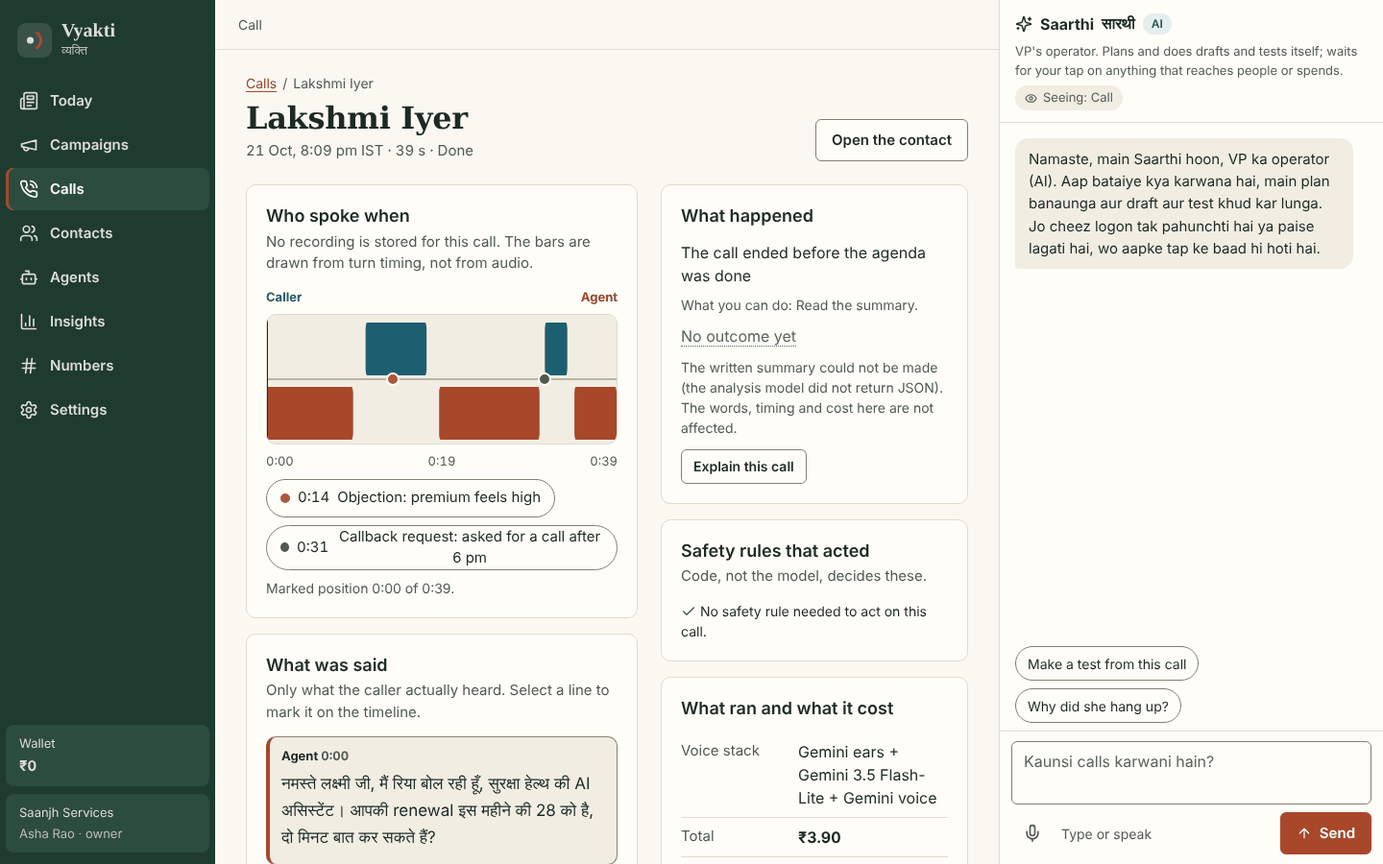
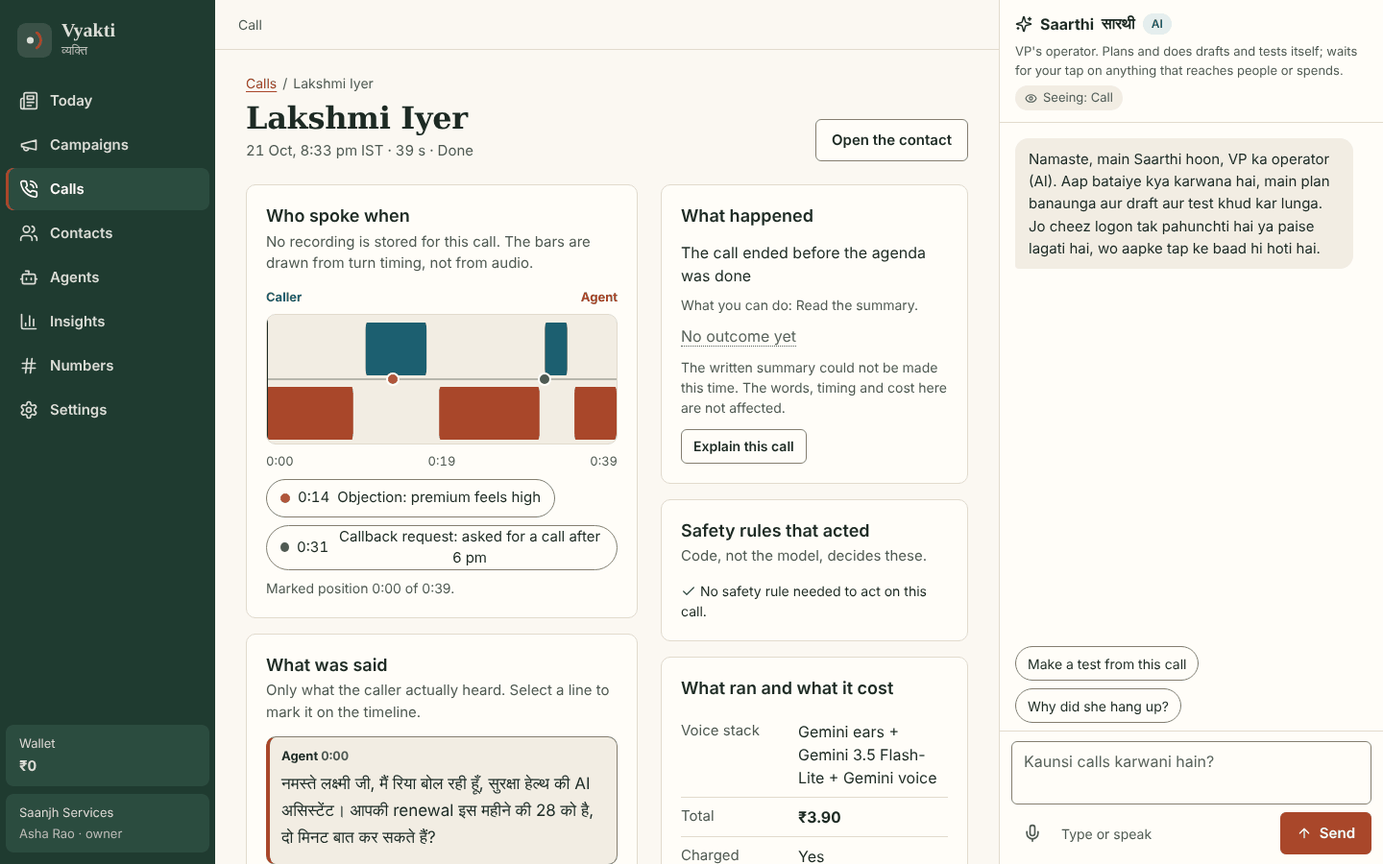
web: copy pass 2 (activity sentences by day, call/contact/campaign copy, wider e2e text scan, registry label coverage test), re-shot all screens
Claude-Session: https://claude.ai/code/session_014EmCLozX1VcXabqUjBazhN

diff --git a/product/web/src/labels.ts b/product/web/src/labels.ts
@@ -103,3 +103,75 @@ export function blockerCopy(b: Blocker): { text: string; why?: string; to?: { la
 }
 
 export const pl = (n: number, one: string, many = one + 's') => `${n} ${n === 1 ? one : many}`;
+
+/** What each tool did, in the past tense and without the actor ("ran a practice call"), for the activity ledger. A test fails if the
+ *  server registers a tool that is not here. An unknown id falls back to "made a change", never to the id itself. */
+export const PAST: Record<string, string> = {
+  'a2p.declaration.export': 'exported the A2P declaration pack', 'action.undo': 'undid a recent change', 'activity.list': 'looked at the activity ledger',
+  'agent.create': 'created an agent', 'agent.get': 'opened an agent', 'agent.list': 'looked at the agents',
+  'apikey.create': 'created an API key', 'apikey.list': 'looked at the API keys', 'apikey.revoke': 'revoked an API key',
+  'attempt.list': 'looked at call attempts', 'attempt.retry_per_ladder': 'scheduled another call attempt',
+  'audience.create': 'saved an audience', 'audience.get': 'opened an audience', 'audience.list': 'looked at the audiences', 'audience.preview': 'previewed who an audience reaches',
+  'brand.cnap_name.set': 'set the name that shows on the phone of the people called', 'brand.get': 'looked at the brand details', 'brand.update': 'changed the brand details',
+  'brief.compile': 'checked an agent\'s brief', 'brief.edit': 'changed an agent', 'brief.today': 'opened the Today brief',
+  'call.explain': 'asked why a call went the way it did', 'call.get': 'opened a call', 'call.place_single': 'called one person', 'call.search': 'searched the calls',
+  'campaign.audience.add': 'added people to a campaign', 'campaign.draft': 'saved a campaign draft', 'campaign.estimate': 'worked out what a campaign would cost', 'campaign.funnel': 'looked at a campaign\'s funnel',
+  'campaign.get': 'opened a campaign', 'campaign.launch': 'launched a campaign', 'campaign.list': 'looked at the campaigns', 'campaign.pause': 'paused a campaign', 'campaign.resume': 'resumed a campaign',
+  'campaign.stop': 'stopped a campaign', 'campaign.stop_at_cap': 'paused a campaign that reached its spend limit', 'campaign.window.narrow': 'narrowed a campaign\'s calling hours', 'campaign.window.widen': 'widened a campaign\'s calling hours',
+  'cap.lower': 'lowered a spend limit', 'cap.raise': 'raised a spend limit', 'consent.record': 'recorded a person\'s consent',
+  'contact.dial_facts': 'checked whether a person can be called', 'contact.dnd_refresh': 'checked people against the Do Not Disturb list', 'contact.export': 'exported people as a file', 'contact.get': 'opened a person',
+  'contact.list': 'looked at the contacts', 'contact.memory.forget': 'forgot everything remembered about a person', 'contact.memory.get': 'looked at what is remembered about a person', 'contact.merge': 'merged two records of one person',
+  'contact.search': 'searched the contacts', 'contact.suppress': 'stopped calling a person', 'contact.suppress_after_opt_out': 'stopped calling a person after they opted out', 'contact.unsuppress': 'allowed calling a person again',
+  'deployment.revert_to_last_good': 'put the previous version of an agent back', 'deployment.split': 'changed which agent versions take calls',
+  'dpdp.request.execute': 'carried out a person\'s data request', 'experiment.assign': 'checked which version a person hears', 'experiment.check': 'checked a test on real calls', 'experiment.get': 'opened a test on real calls',
+  'experiment.list': 'looked at the tests on real calls', 'experiment.start': 'started a test on real calls', 'experiment.stop': 'stopped a test on real calls',
+  'fact.approve': 'approved something remembered about a person', 'fact.forget': 'forgot one remembered fact',
+  'integration.connect': 'connected an outside service', 'integration.disconnect': 'disconnected an outside service', 'integration.kinds': 'looked at what can be connected', 'integration.list': 'looked at the connected services', 'integration.stage_secrets': 'handed over credentials for an outside service',
+  'invoice.get': 'looked at the usage statement', 'issue.list': 'looked at the open issues', 'issue.resolve': 'resolved an issue',
+  'judge.calibrate': 'measured how well an outcome judge agrees with people', 'judge.edit': 'changed how an outcome is judged',
+  'knowledge.ingest': 'added a knowledge source', 'knowledge.list': 'looked at the knowledge sources', 'knowledge.span.approve': 'decided which passages she may state', 'learning.power': 'worked out how many calls a test needs', 'learning.propose': 'looked for improvements from an agent\'s calls',
+  'lesson.list': 'looked at what has been learned', 'live.listen': 'listened to a live call', 'live.takeover': 'took over a live call', 'live.whisper': 'whispered to the agent on a live call',
+  'member.invite': 'invited a teammate', 'member.list': 'looked at the team', 'member.remove': 'removed a teammate', 'member.role.set': 'changed a teammate\'s role',
+  'memory.brief': 'prepared what the next call remembers', 'memory.extract': 'noted something a caller said, for review', 'memory.policy.get': 'looked at the memory setting', 'memory.policy.set': 'changed what is remembered',
+  'money.card': 'looked at a stack\'s provider costs', 'money.estimate': 'worked out what a voice stack costs', 'money.reconcile': 'compared charges with metered cost', 'monitor.create': 'turned on a monitor', 'monitor.list': 'looked at the monitors',
+  'number.byo.connect': 'connected a number they own', 'number.kyc.submit': 'sent KYC documents for a number', 'number.pause': 'paused a number', 'number.pause_flagged': 'paused a flagged number', 'number.rent': 'rented a number', 'number.search': 'searched for numbers to rent',
+  'offering.edit': 'changed an offering', 'offering.list': 'looked at the offerings',
+  'operator.autonomy.lower': 'made Saarthi ask before every draft and test', 'operator.autonomy.raise': 'let Saarthi draft and test on its own again', 'operator.brain.set': 'switched Saarthi\'s brain',
+  'operator.preference.forget': 'forgot a way Saarthi works for them', 'operator.preference.list': 'looked at what Saarthi remembers about how they work', 'operator.preference.remember': 'asked Saarthi to remember how they like to work', 'operator.settings.get': 'looked at the Saarthi settings',
+  'outcome.define': 'defined what counts as an outcome', 'outcome.label': 'labelled a call\'s outcome', 'outcome.record_verified': 'recorded an outcome confirmed by their own system',
+  'plan.change': 'changed the plan', 'policy.category.override': 'changed a campaign\'s kind of call', 'policy.window.set': 'changed the calling hours',
+  'proposal.accept': 'started testing a proposed change on real calls', 'proposal.get': 'opened a proposed change', 'proposal.list': 'looked at the proposed changes', 'proposal.probe': 'simulated a proposed change',
+  'report.create': 'built a report', 'revision.list': 'looked at recent changes', 'safety.cases': 'looked at the safety rules', 'safety.check': 'previewed the safety check', 'search.global': 'searched everything', 'secret.reveal': 'viewed a new key once',
+  'share.link.create': 'made a link to share one item', 'share.link.list': 'looked at the share links', 'share.link.revoke': 'turned a share link off',
+  'source.commit': 'imported a contact list', 'source.list': 'looked at where people come from', 'source.map': 'matched the columns of a contact list', 'source.receipt': 'looked at an import receipt', 'source.upload': 'uploaded a contact list',
+  'stack.list': 'looked at the voice stacks', 'stack.set': 'chose a voice stack for an agent', 'template.list': 'looked at the starter agents',
+  'test.browser_call': 'started a test call in the browser', 'test.ring_member_phone': 'rang their own phone for a test', 'test.simulate': 'ran a practice call', 'test.simulate_batch': 'ran a set of practice calls',
+  'thread.get': 'opened a Saarthi conversation', 'thread.list': 'looked at the Saarthi conversations', 'tool.attach': 'changed what an agent can do on a call', 'usage.get': 'looked at what has been spent',
+  'version.candidate': 'prepared a version to test', 'version.diff': 'compared two versions', 'version.list': 'looked at an agent\'s versions', 'version.publish': 'published an agent', 'voice.set': 'chose a voice for an agent',
+  'wallet.credit': 'credited the wallet by hand', 'wallet.get': 'looked at the wallet', 'wallet.topup': 'added money to the wallet',
+  'webhook.create': 'added a webhook', 'webhook.delete': 'removed a webhook', 'webhook.deliveries': 'looked at what was sent to webhooks', 'webhook.emit': 'queued a webhook event', 'webhook.list': 'looked at the webhooks', 'webhook.replay': 'sent a webhook event again',
+  'workspace.get': 'looked at the workspace',
+  'attempt.cancel_for_contact': 'cancelled waiting call attempts for a person', 'member.phone.verify_confirm': 'checked the code for verifying their phone', 'member.phone.verify_start': 'asked for a call to verify their phone',
+  'number.a2p.declare': 'recorded a number\'s A2P declaration', 'number.kyc.sync': 'refreshed a number\'s KYC status', 'number.list': 'looked at the numbers', 'policy.retention.get': 'looked at how long data is kept', 'policy.retention.set': 'changed how long data is kept',
+  'simcaller.list': 'looked at the practice callers', 'simcaller.save': 'saved a practice caller',
+};
+/** Where to look at what an activity row was about (a page, not an object: the ledger carries no object id for most rows). */
+export function pageFor(tool: string): string | null {
+  const p = tool.split('.')[0];
+  return ({ agent: '/agents', brief: '/agents', stack: '/agents', version: '/agents', voice: '/agents', test: '/agents', campaign: '/campaigns', audience: '/audiences', source: '/contacts', contact: '/contacts', call: '/calls',
+    number: '/numbers', wallet: '/settings/billing', cap: '/settings/billing', apikey: '/settings/keys', member: '/settings/team', brand: '/settings/brand', knowledge: '/settings/knowledge', memory: '/settings/privacy',
+    dpdp: '/settings/privacy', operator: '/settings/operator', integration: '/settings/integrations', proposal: '/insights', learning: '/insights', experiment: '/insights', issue: '/insights', monitor: '/insights' } as Record<string, string>)[p] ?? null;
+}
+/** "Asha Rao ran test simulate (approved)" becomes "Asha Rao ran a practice call". The actor is the text before the first verb. */
+// Audit events that are not tools; written so the tool-contract scan does not mistake them for tool ids.
+const PROPOSED = ['action', 'propose'].join('.'), CREATED = ['workspace', 'create'].join('.');
+export function activitySentence(line: string, action: string): string {
+  const actor = /^(.+?) (?:ran|asked|did|made|set|changed) /.exec(line)?.[1] ?? 'Someone';
+  if (action === CREATED) return `${actor} created the workspace`;
+  if (action === PROPOSED) {
+    const words = /asked to run (.+?) and is waiting/.exec(line)?.[1];
+    const key = words ? Object.keys(TOOL_LABEL).find(k => k.replace(/[._]/g, ' ') === words) : undefined;
+    return key ? `${actor} asked for approval: ${TOOL_LABEL[key].ask.charAt(0).toLowerCase()}${TOOL_LABEL[key].ask.slice(1)}` : `${actor} asked for approval to make a change`;
+  }
+  return `${actor} ${PAST[action] ?? 'made a change'}${/\(approved\)/.test(line) ? ', after approval' : ''}`;
+}

diff --git a/product/web/src/pages/settings.tsx b/product/web/src/pages/settings.tsx
@@ -6,9 +6,11 @@ import { useApp, useData } from '../store.tsx';
 import { useNav } from '../router.tsx';
 import { Async, Btn, Card, CardHead, Chip, Empty, Locked, Meter, NotMeasured, PageHead, SelectField, Sheet, Table, Tabs, TextArea, TextField, Toggle, type Col } from '../ui.tsx';
 import { activityList, keyList, knowledgeList, memberList, walletGet } from '../data.ts';
-import { ago, count, date, inr } from '../format.ts';
+import { ago, count, date, inr, time } from '../format.ts';
 import { prettyId } from '../catalog.ts';
 import { prettyCode } from './contacts.tsx';
+import { Link } from '../router.tsx';
+import { activitySentence, pageFor } from '../labels.ts';
 import type { ActivityRow, ApiKey, KnowledgeItem, Member } from '../types.ts';
 
 const TABS = ['team', 'keys', 'brand', 'knowledge', 'billing', 'compliance', 'privacy', 'operator', 'integrations', 'activity'] as const;
@@ -174,7 +176,7 @@ function Compliance() {
   return (
     <div className="stack">
       <Card><CardHead title="Rules every call follows" sub="Enforced in code at one dial gate and one reply door, not in a prompt. They cannot be switched off." />
-        <Async q={q} what="Safety rules" tool="safety.cases">{d => <><ul className="billing">{d.rules.reply.map(r => <li key={r.id}><div><strong>{r.reason.charAt(0).toUpperCase() + r.reason.slice(1)}</strong><span className="small muted"> · {r.action === 'block' ? 'blocked' : 'replaced'} before it is said</span></div><Chip tone="leaf">Always on</Chip></li>)}</ul><p className="small muted">Rule set {d.rules.version}. Also always on: DND and opt-out checks before every attempt, and the AI disclosure, spoken once and lightly.</p></>}</Async></Card>
+        <Async q={q} what="Safety rules" tool="safety.cases">{d => <><ul className="billing">{d.rules.reply.map(r => <li key={r.id}><div><strong>{r.reason.charAt(0).toUpperCase() + r.reason.slice(1)}</strong><span className="small muted"> · {r.action === 'block' ? 'blocked' : 'replaced'} before it is said</span></div><Chip tone="leaf">Always on</Chip></li>)}</ul><p className="small muted">Rules last updated {(() => { const m = /^(\d{4}-\d{2}-\d{2})/.exec(d.rules.version); return m ? new Date(m[1] + 'T00:00:00+05:30').toLocaleDateString('en-IN', { day: 'numeric', month: 'long', year: 'numeric', timeZone: 'Asia/Kolkata' }) : 'recently'; })()}. Also always on: DND and opt-out checks before every attempt, and the AI disclosure, spoken once and lightly.</p></>}</Async></Card>
       <Card><CardHead title="Workspace calling hours" sub="The outer band every campaign window must sit inside. Widening it is a policy change." />
         {policy ? <><div className="formgrid"><TextField label="From" type="time" value={band.start} onChange={e => setBand({ ...band, start: e.target.value })} /><TextField label="To" type="time" value={band.end} onChange={e => setBand({ ...band, end: e.target.value })} /></div>
           <div style={{ marginTop: 12 }}>{band.start < band.end ? <Btn kind="primary" onClick={() => void act('policy.window.set', { outerBand: band }, { describe: 'Calling hours changed.' })}>Ask to set</Btn> : <Btn disabled reason="The band must end after it starts.">Ask to set</Btn>}</div></> : <Locked role="owner or compliance lead" />}</Card>
@@ -211,7 +213,7 @@ function OperatorTab() {
       <Toggle checked={d.autonomy === 'A0'} onChange={async on => { const r = await act(on ? 'operator.autonomy.lower' : 'operator.autonomy.raise', { level: on ? 'A0' : 'A1' }, { describe: on ? 'Saarthi will now ask before every draft and test.' : 'Saarthi can draft and test on its own again.' }); if (r.ok) q.reload(); else refresh(); }}
         label="Ask before drafts and tests too" hint="Lowering this takes effect at once. Raising it back is a policy change and asks for approval." /></Card>
     <Card><CardHead title="Brain" sub="The model behind Saarthi. It changes speed and what each turn costs, never what is allowed." />
-      <p>Current: {d.brain ? <strong>{prettyId(d.brain)}</strong> : <NotMeasured>None chosen</NotMeasured>}</p>
+      <p>Current: {d.brain ? <strong>{prettyId(d.brain)}</strong> : <NotMeasured>Not chosen yet</NotMeasured>}</p>
       {d.brains.length === 0 ? <p className="small muted">No curated brains are configured on this server yet.</p> : <><div className="formgrid" style={{ marginTop: 12 }}><SelectField label="Choose a brain" value={pick} onChange={e => setPick(e.target.value)} hint="Nothing is recommended by default. Switching changes the cost of every Operator turn."><option value="">Choose one</option>{d.brains.map(b => <option key={b} value={b}>{prettyId(b)}</option>)}</SelectField></div>
         <div style={{ marginTop: 12 }}>{pick && pick !== d.brain ? <Btn kind="primary" onClick={async () => { const r = await act('operator.brain.set', { brain: pick }, { describe: 'Brain changed.' }); if (r.ok) q.reload(); }}>Ask to switch…</Btn> : <Btn disabled reason={pick ? 'That brain is already in use.' : 'Choose a brain first.'}>Ask to switch</Btn>}</div></>}</Card></div>}</Async>;
 }
@@ -223,10 +225,19 @@ function Integrations() {
     <Card><CardHead title="What can be connected" sub="Credentials are encrypted and never shown again. Connecting is a policy change." /><ul className="billing">{d.kinds.map(k => <li key={k.id}><strong>{k.label}</strong><span className="small muted">needs {k.secrets.map(s => s.replace(/_/g, ' ')).join(', ')}</span></li>)}</ul><p className="small muted" style={{ marginTop: 8 }}>Connecting is done with Saarthi or the API for now, so credentials never pass through a page.</p></Card></div>}</Async>;
 }
 
+function dayLabel(iso: string): string {
+  const d = new Date(iso); const ist = (x: Date) => x.toLocaleDateString('en-CA', { timeZone: 'Asia/Kolkata' });
+  const today = ist(new Date()), y = ist(new Date(Date.now() - 86400000));
+  return ist(d) === today ? 'Today' : ist(d) === y ? 'Yesterday' : d.toLocaleDateString('en-IN', { day: 'numeric', month: 'long', year: 'numeric', timeZone: 'Asia/Kolkata' });
+}
 function Activity() {
   const q = useData<ActivityRow[]>('activity', activityList);
-  const cols: Col<ActivityRow>[] = [{ key: 't', label: 'When', render: a => date(a.at, true) }, { key: 's', label: 'What', primary: true, render: a => a.line }];
   return <Card><CardHead title="What VP did" sub="Every draft, test and approved action, with who did it." />
-    <Async q={q} what="Activity" tool="activity.list" empty={d => d.length === 0 ? <Empty title="Nothing yet" body="Everything that changes something is written here." /> : null}>{d => <Table caption="Activity ledger" cols={cols} rows={d} rowKey={r => r.id} />}</Async></Card>;
+    <Async q={q} what="Activity" tool="activity.list" empty={d => d.length === 0 ? <Empty title="Nothing yet" body="Everything that changes something is written here." /> : null}>{d => {
+      const groups: [string, ActivityRow[]][] = [];
+      for (const r of d) { const k = dayLabel(r.at); const g = groups[groups.length - 1]; if (g && g[0] === k) g[1].push(r); else groups.push([k, [r]]); }
+      return <div className="stack">{groups.map(([day, rows]) => <section key={day} aria-label={day}><h3 className="dayhead">{day}</h3>
+        <ul className="billing">{rows.map(r => { const to = pageFor(r.action); return <li key={r.id}><div><span className="tnum muted">{time(r.at).replace(' IST', '')}</span> &nbsp;{activitySentence(r.line, r.action)}</div>{to && <Link to={to} className="small">Open</Link>}</li>; })}</ul></section>)}</div>;
+    }}</Async></Card>;
 }
 export { count, Lock };

diff --git a/product/web/src/pages/contacts.tsx b/product/web/src/pages/contacts.tsx
@@ -7,6 +7,10 @@ import { Async, Btn, Card, CardHead, Chip, Empty, Kv, PageHead, SelectField, Tab
 import { langShort } from '../catalog.ts';
 import { audienceList, contactGet, contactList, importMap, importUpload, overridesFrom } from '../data.ts';
 import { count, date, phone as fmtPhone } from '../format.ts';
+const REASON: Record<string, string> = { dnd_unknown: 'Do Not Disturb has not been checked yet', dnd_registered: 'The person is on the Do Not Disturb list', suppressed: 'The person asked not to be called', no_consent: 'No consent is on file', no_basis: 'There is no basis on file to call this person', tombstoned: 'The person asked to be erased' };
+const reasonText = (r: string) => REASON[r] ?? prettyCode(r).replace(/^Dnd/, 'Do Not Disturb');
+const zoneName = (z: string) => (z === 'Asia/Kolkata' ? 'India time (IST)' : z.split('/').pop()!.replace(/_/g, ' '));
+const isoDay = (v: unknown) => (typeof v === 'string' && /^\d{4}-\d{2}-\d{2}$/.test(v) ? new Date(v + 'T00:00:00+05:30').toLocaleDateString('en-IN', { day: 'numeric', month: 'short', year: 'numeric', timeZone: 'Asia/Kolkata' }) : null);
 import type { AudienceRow, ContactRow, ImportPreview } from '../types.ts';
 
 const dndChip = (d: string) => <Chip tone={d === 'clear' ? 'leaf' : d === 'registered' || d === 'listed' ? 'brick' : 'neutral'}>{d === 'clear' ? 'DND clear' : d === 'registered' || d === 'listed' ? 'On the DND list' : 'DND not checked'}</Chip>;
@@ -173,13 +177,13 @@ function ContactPage({ id }: { id: string }) {
   return (
     <div className="page"><Async q={q} what="This contact" tool="contact.get" rows={5}>{c => (
       <>
-        <PageHead crumb={<><Link to="/contacts">Contacts</Link><span aria-hidden>/</span><span>{c.name}</span></>} title={c.name} sub={<span className="tnum">{fmtPhone(c.phone)} · {langShort(c.language)} · {c.timezone}</span>} actions={<>{dndChip(c.dnd.status)}</>} />
+        <PageHead crumb={<><Link to="/contacts">Contacts</Link><span aria-hidden>/</span><span>{c.name}</span></>} title={c.name} sub={<span className="tnum">{fmtPhone(c.phone)} · {langShort(c.language)} · {zoneName(c.timezone)}</span>} actions={<>{dndChip(c.dnd.status)}</>} />
         {c.suppressions.length > 0 && <p className="state state-failed" role="note" style={{ marginBottom: 16 }}>She will not call this number. Reason: {c.suppressions.map(s => s.reason.replace(/_/g, ' ')).join(', ')}.</p>}
         <div className="cols-main">
           <div className="stack">
             <Card><CardHead title="Can she call?" />
-              <dl className="kv"><div><dt>Service calls</dt><dd><Chip tone={c.service.allowed ? 'leaf' : 'brick'}>{c.service.allowed ? 'Allowed' : 'Not allowed'}</Chip> {c.service.reasons.length > 0 && <span className="small muted">{c.service.reasons.map(prettyCode).join(', ')}</span>}</dd></div>
-                <div><dt>Promotional calls</dt><dd><Chip tone={c.promotional.allowed ? 'leaf' : 'brick'}>{c.promotional.allowed ? 'Allowed' : 'Not allowed'}</Chip> {c.promotional.reasons.length > 0 && <span className="small muted">{c.promotional.reasons.map(prettyCode).join(', ')}</span>}</dd></div></dl></Card>
+              <dl className="kv"><div><dt>Service calls</dt><dd><Chip tone={c.service.allowed ? 'leaf' : 'brick'}>{c.service.allowed ? 'Allowed' : 'Not allowed'}</Chip> {c.service.reasons.length > 0 && <span className="small muted">{c.service.reasons.map(reasonText).join('. ')}</span>}</dd></div>
+                <div><dt>Promotional calls</dt><dd><Chip tone={c.promotional.allowed ? 'leaf' : 'brick'}>{c.promotional.allowed ? 'Allowed' : 'Not allowed'}</Chip> {c.promotional.reasons.length > 0 && <span className="small muted">{c.promotional.reasons.map(reasonText).join('. ')}</span>}</dd></div></dl></Card>
             <Card><CardHead title="Memory" sub="Only what they said, with the exact words. Approve to let the next call use it." />
               {!c.memory ? <p className="muted">Memory is not switched on in this server yet.</p> : c.memory.optedOut ? <p className="muted">This person opted out of memory. Nothing is kept.</p>
                 : c.memory.facts.length === 0 ? <Empty title="Nothing remembered yet" body="After a real call, anything useful they said shows here for you to approve. Practice calls never write memory." />
@@ -196,8 +200,8 @@ function ContactPage({ id }: { id: string }) {
           <div className="stack">
             <Card><CardHead title="Consent" />{c.consent.length === 0 ? <p className="muted">No consent is recorded for this person. Service and transactional calls to existing customers do not need one; promotional calls do.</p> :
               <ul className="facts">{c.consent.map(k => <li key={k.id}><div className="row" style={{ justifyContent: 'space-between' }}><strong>{k.purpose}</strong><Chip tone={k.granted ? 'leaf' : 'brick'}>{k.granted ? 'Granted' : 'Withdrawn'}</Chip></div><p className="small muted">{k.basis.replace(/_/g, ' ')} · {k.channel} · {date(k.created_at)}</p></li>)}</ul>}</Card>
-            <Card><CardHead title="Do Not Disturb" /><Kv rows={[['Status', dndChip(c.dnd.status)], ['Last checked', c.dnd.checkedAt ? date(c.dnd.checkedAt, true) : 'Not yet'], ['Fresh', c.dnd.fresh ? 'Yes' : 'No']]} /></Card>
-            <Card><CardHead title="Details from your lists" /><Kv rows={c.attributes.filter(a => a.key !== 'name').map(a => [a.key.replace(/_/g, ' '), <span key={a.key}>{String(a.value)}{a.stale && <span className="muted"> · stale</span>}</span>] as [string, React.ReactNode])} /></Card>
+            <Card><CardHead title="Do Not Disturb" /><Kv rows={[['Status', dndChip(c.dnd.status)], ['Last checked', c.dnd.checkedAt ? date(c.dnd.checkedAt, true) : 'Not yet'], [ 'Check', c.dnd.fresh ? 'Recent enough for promotional calls' : 'Needs a fresh check before promotional calls']]} /></Card>
+            <Card><CardHead title="Details from your lists" /><Kv rows={c.attributes.filter(a => a.key !== 'name').map(a => [a.key.replace(/_/g, ' '), <span key={a.key}>{a.key === 'language' ? langShort(String(a.value)) : isoDay(a.value) ?? String(a.value)}{a.stale && <span className="muted"> · stale</span>}</span>] as [string, React.ReactNode])} /></Card>
           </div>
         </div>
       </>)}</Async></div>

diff --git a/product/web/src/pages/calls.tsx b/product/web/src/pages/calls.tsx
@@ -81,10 +81,10 @@ function Body({ c }: { c: CallDoc }) {
         <div className="stack">
           <Card><CardHead title="What happened" />
             <p style={{ marginBottom: 8 }}>{c.reason?.label ?? (c.status === 'live' ? 'The call is still live.' : 'No reason has been recorded.')}</p>
-            {c.reason && <p className="small muted">What you can do: {c.reason.action}.</p>}
+            {c.reason && <p className="small muted">{c.reason.code === 'END_OPTED_OUT' ? 'Nothing to do. VP will not call this number again.' : /^none\b/i.test(c.reason.action) ? `Nothing to do.${c.reason.action.replace(/^none;?\s*/i, '') ? ' ' + c.reason.action.replace(/^none;?\s*/i, '').replace(/^./, x => x.toUpperCase()).replace(/\.?$/, '.') : ''}` : `What you can do: ${c.reason.action.replace(/\.$/, '')}.`}</p>}
             <div style={{ margin: '10px 0' }}>{outcomeChip(best?.value ?? c.outcome, best?.grade ?? null)}</div>
             {best?.grade === 'ai_guess' && <p className="small muted">An AI guess is not verified by your system or a person.</p>}
-            {c.analysis && c.analysis.status !== 'done' && <p className="small muted">{c.analysis.status === 'not_configured' ? 'The written summary and outcome guess are off, because no analysis model is set up on this server.' : c.analysis.status === 'failed' ? `The written summary could not be made${c.analysis.reason ? ` (${c.analysis.reason.replace(/\.$/, '')})` : ''}. The words, timing and cost here are not affected.` : 'This call was not analysed.'}</p>}
+            {c.analysis && c.analysis.status !== 'done' && <p className="small muted">{c.analysis.status === 'not_configured' ? 'The written summary and outcome guess are off, because no analysis model is set up on this server.' : c.analysis.status === 'failed' ? 'The written summary could not be made this time. The words, timing and cost here are not affected.' : 'This call was not analysed.'}</p>}
             <div style={{ marginTop: 12 }}>{why ? <div className="why"><p><strong>{why.headline}</strong></p>{why.because.map((b, i) => { const ev = b.evidence as { quote?: string; atMs?: number | null }; return <p key={i} className="small">{b.point}{ev.quote && <> <button type="button" className="linklike" onClick={() => seek(ev.atMs ?? null)}>{ev.atMs != null ? clock(ev.atMs / 1000) : 'quote'}</button> <span lang="hi">“{ev.quote}”</span></>}</p>; })}{why.notes.map(n => <p key={n} className="small muted">{n}</p>)}</div> : <Btn size="sm" busy={whyBusy} onClick={explain}>Explain this call</Btn>}</div></Card>
           {quotes.length > 0 && <Card><CardHead title="In their words" /><ul className="quotes">{quotes.map((m, i) => <li key={i}><blockquote lang="hi">“{m.quote}”</blockquote><div className="row"><Chip>{prettyCode(m.kind)}</Chip>{m.atMs != null && <button type="button" className="btn btn-sm" onClick={() => seek(m.atMs)}><Play size={12} aria-hidden /><span>Mark {clock(m.atMs / 1000)}</span></button>}</div></li>)}</ul></Card>}
           <Card><CardHead title="Safety rules that acted" sub="Code, not the model, decides these." />

diff --git a/product/web/src/pages/campaigns.tsx b/product/web/src/pages/campaigns.tsx
@@ -104,7 +104,7 @@ function Detail({ id }: { id: string }) {
       const first = c.blockers[0];
       const live = c.state === 'running' || c.state === 'paused';
       return (<>
-        <PageHead crumb={<><Link to="/campaigns">Campaigns</Link><span aria-hidden>/</span><span>{c.name}</span></>} title={c.name} pill={<span className={`pill ${c.state === 'running' ? 'pill-live' : c.state === 'draft' ? 'pill-draft' : ''}`}>{STATE[c.state]?.[0] ?? prettyCode(c.state)} · policy v{c.policyVersion}</span>}
+        <PageHead crumb={<><Link to="/campaigns">Campaigns</Link><span aria-hidden>/</span><span>{c.name}</span></>} title={c.name} pill={<span className={`pill ${c.state === 'running' ? 'pill-live' : c.state === 'draft' ? 'pill-draft' : ''}`}>{STATE[c.state]?.[0] ?? prettyCode(c.state)}</span>}
           sub={<>{CATEGORY_INFO[c.category]?.label ?? c.category} calls</>}
           actions={<>
             {c.state === 'running' && <Btn icon={<Pause size={16} aria-hidden />} onClick={() => run('campaign.pause', 'Paused. Calls already placed stay as they are.')}>Pause</Btn>}
@@ -131,7 +131,7 @@ function Detail({ id }: { id: string }) {
             {live && <Card><CardHead title="Live" /><Meter label="Allowed at once" value={c.counts.filter(x => x.status === 'dialing' || x.status === 'in_progress').reduce((a, b) => a + b.n, 0)} max={c.concurrency ?? 1} tone="peacock" note={`${c.concurrency ?? '?'} allowed`} />
               <ul className="billing" style={{ marginTop: 8 }}>{c.counts.map((k, i) => <li key={i}><span>{prettyCode(k.status)}{k.code ? ` · ${prettyCode(k.code)}` : ''}</span><strong className="tnum">{count(k.n)}</strong></li>)}</ul></Card>}
             <Card><CardHead title="Window and policy" actions={c.state !== 'done' ? <Btn size="sm" onClick={() => setEdit(true)}>Change window</Btn> : undefined} />
-              <dl className="kv"><div><dt>Hours</dt><dd className="tnum">{c.window.ranges.map(r => `${r.start} to ${r.end}`).join(', ') || '—'}</dd></div><div><dt>Days</dt><dd>{dayList(c.window.days) || '—'}</dd></div>
+              <dl className="kv"><div><dt>Version</dt><dd className="tnum">Calling rules, version {c.policyVersion}</dd></div><div><dt>Hours</dt><dd className="tnum">{c.window.ranges.map(r => `${r.start} to ${r.end}`).join(', ') || '—'}</dd></div><div><dt>Days</dt><dd>{dayList(c.window.days) || '—'}</dd></div>
                 <div><dt>At once</dt><dd className="tnum">{c.concurrency ?? '—'}</dd></div><div><dt>Spend cap</dt><dd className="tnum">{c.capInrMilli ? inr(c.capInrMilli) : <NotMeasured>No cap set</NotMeasured>}</dd></div></dl></Card>
             <Card><CardHead title="Calls" /><p className="small muted">Every call with its words, its reason and its cost.</p><Link to={`/calls?campaign=${c.id}`}>Open this campaign's calls</Link></Card>
           </div>

diff --git a/product/web/src/pages/agent-builder.tsx b/product/web/src/pages/agent-builder.tsx
@@ -156,7 +156,7 @@ function Persona({ cfg, set }: { cfg: AgentConfigDraft; set: S }) {
       <Card><CardHead title="Feel" />
         <div className="formgrid">
           <Field label="Energy" hint={`${['Very calm', 'Calm', 'Even', 'Bright', 'Very bright'][p.energy - 1]}`}>{pr => <><Wave energy={p.energy} /><input {...pr} type="range" min="1" max="5" step="1" value={p.energy} onChange={e => set(c => { c.persona.energy = Number(e.target.value) as 1; })} /></>}</Field>
-          <Field label="Humour" hint="Never on dues or when someone sounds upset.">{() => <div className="row"><Dots n={p.humour} /><Segmented label="Humour" value={p.humour} onChange={v => set(c => { c.persona.humour = v as 0; })} options={[{ value: 0, label: 'None' }, { value: 1, label: 'Light' }, { value: 2, label: 'Playful' }]} /></div>}</Field>
+          <Field label="Humour" hint="Never on dues or when someone sounds upset.">{() => <div className="row"><Dots n={p.humour} /><Segmented label="Humour" value={p.humour} onChange={v => set(c => { c.persona.humour = v as 0; })} options={[{ value: 0, label: 'Off' }, { value: 1, label: 'Light' }, { value: 2, label: 'Playful' }]} /></div>}</Field>
           <Field label="How she addresses people">{() => <Segmented label="Address" value={p.honorific} onChange={v => set(c => { c.persona.honorific = v; })} options={[{ value: 'aap', label: 'Aap', hint: 'Respectful' }, { value: 'tum', label: 'Tum', hint: 'Casual' }, { value: 'mirror', label: 'Match the caller' }]} />}</Field>
         </div></Card>
       <Card><CardHead title="Notes for her" sub="Short shapes, not lines to recite. For example: “explain like to someone driving”." />

diff --git a/product/tests/web.test.ts b/product/tests/web.test.ts
@@ -69,6 +69,17 @@ test('every tool the UI calls is registered by the loaded modules (ui-contract -
   assert.match(out, / 0 missing/);
 });
 
+test('every tool the server registers has a person-facing past-tense label for the activity ledger', async () => {
+  const { default: pg } = await import('pg');
+  const { buildApp } = await import('../server/app.ts');
+  const { modules } = await import('../server/modules/index.ts');
+  const { PAST } = await import('../web/src/labels.ts');
+  const { registry } = buildApp(new pg.Pool({ connectionString: 'postgresql://unused@/unused' }), modules);
+  const missing = registry.list().map(t => t.name).filter(n => !PAST[n]);
+  assert.deepEqual(missing, [], 'tools with no activity label: ' + missing.join(', '));
+  for (const [k, v] of Object.entries(PAST)) assert.ok(!/[_]|\b\w+\.\w+\b/.test(v) && !/\b[a-z]+[A-Z]/.test(v), `label for ${k} reads like a code: ${v}`);
+});
+
 test('no page writes from a menu: act() is never called inside an onChange of a select or input', () => {
   for (const f of readdirSync(web + 'src/pages')) {
     const txt = readFileSync(web + 'src/pages/' + f, 'utf8');

diff --git a/product/web/src/pages.css b/product/web/src/pages.css
@@ -101,3 +101,4 @@ textarea.mono { font-family: "IBM Plex Mono", "JetBrains Mono", ui-monospace, mo
 .funnel-note { margin: 0; }
 .formgrid3 { display: grid; grid-template-columns: 1fr 1fr 1fr; gap: 12px; } @media (max-width: 819px) { .formgrid3 { grid-template-columns: 1fr; } }
 .plainlist { margin: 0; padding-left: 20px; display: grid; gap: 6px; }
+.dayhead { font-size: 0.9375rem; color: var(--ink-2); margin: 4px 0 0; font-weight: 700; }
